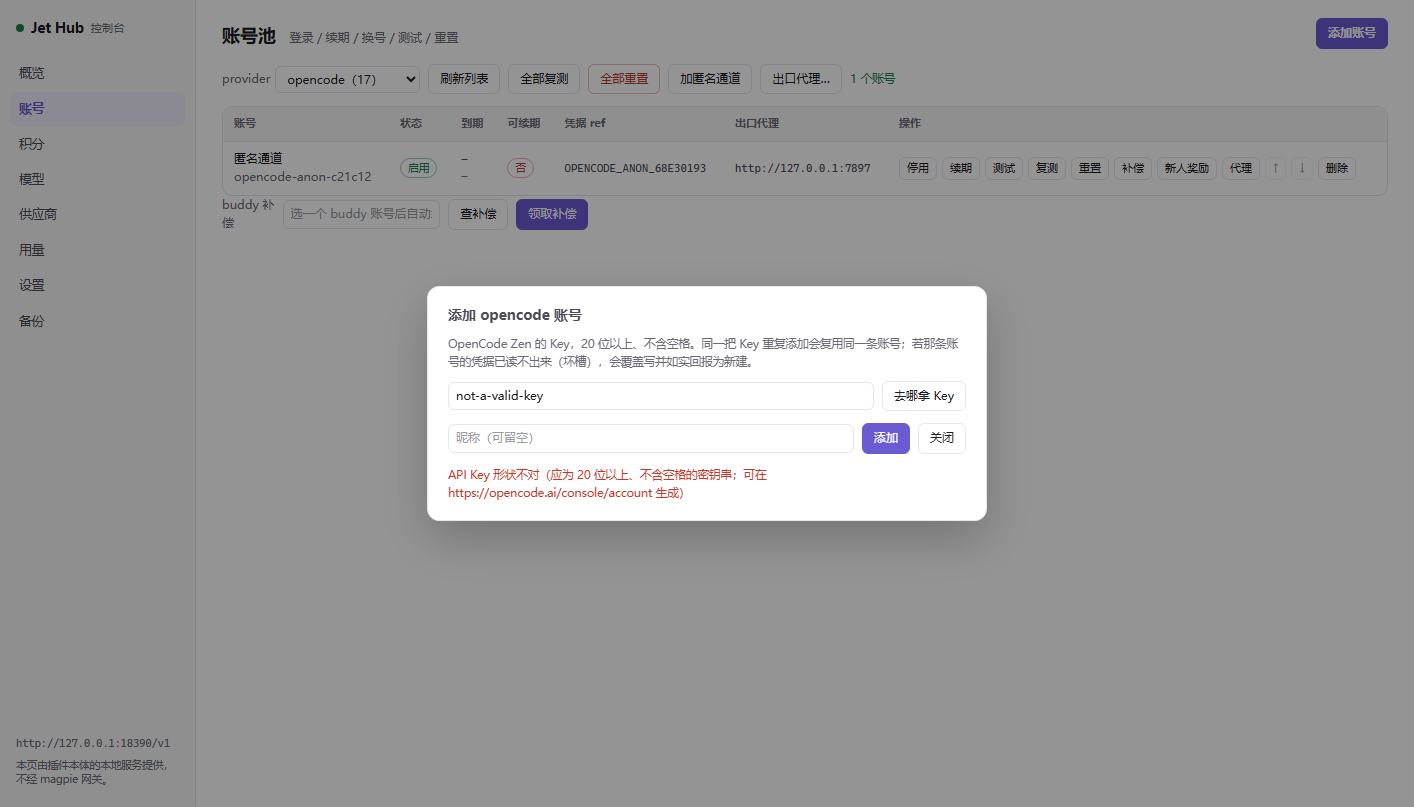
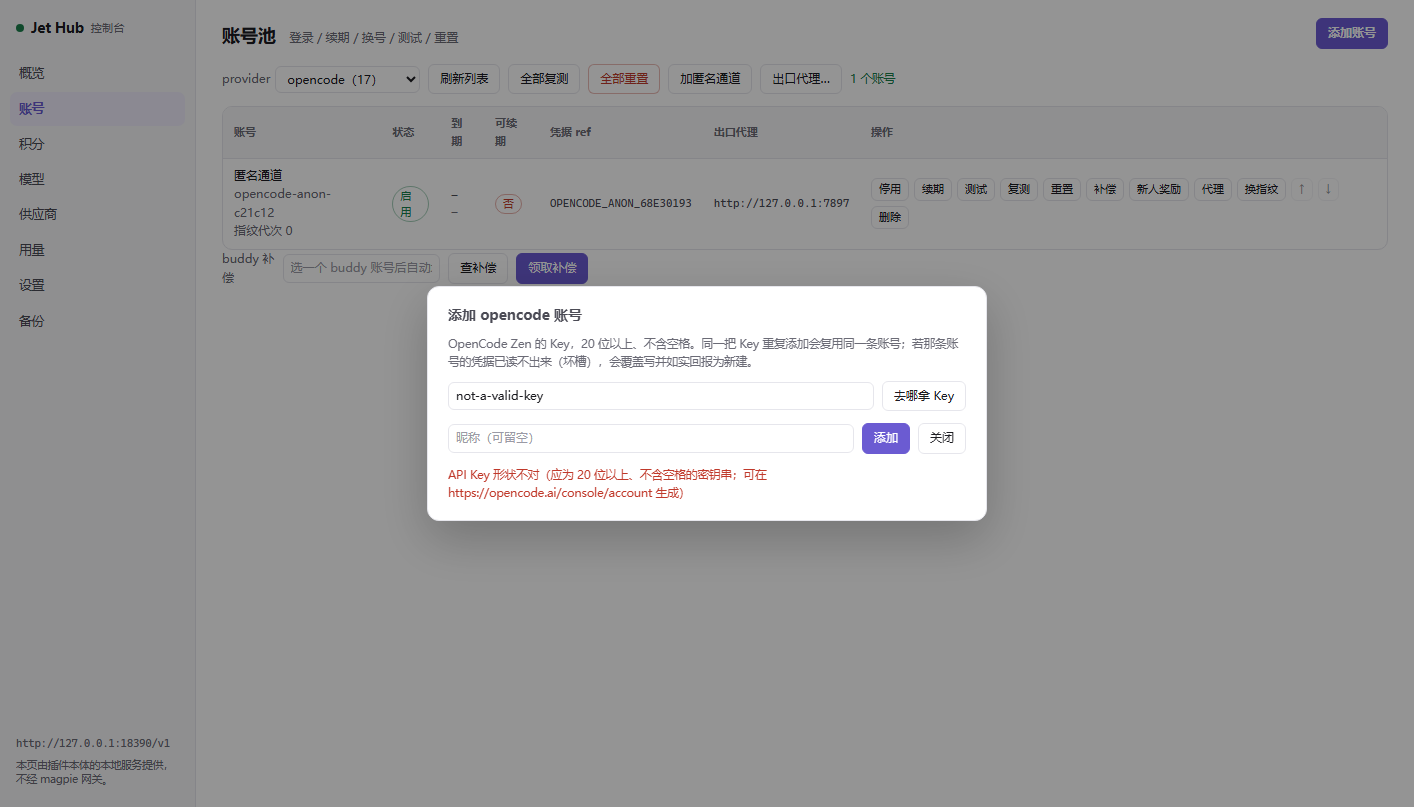
feat(console): 接上最后 2 个 RPC，覆盖率 78/78
modelscope.setApiKey：账号行加「换 Key」按钮（只 modelscope 有，opencode 没有
setApiKey，只能先删后加，就不给用户一条走不通的路）。⚠ 换另一把 Key ⇒ 账号 id
随 Key 尾 8 位变 ⇒ 本体先建后删并回 renamed:true ⇒ 界面整表重读；同一把 Key
只刷凭据回 renamed:false。两种结果都重读——credentialRef/掩码这些派生列也得重算。

opencode.rotateFingerprint：账号行加「换指纹」按钮并在账号名下显示「指纹代次 N」
（读 account.list 透传的池字段 opencodeFingerprintGeneration，与池侧
normalizeOpencodeGeneration 同源）。文案不承诺额度：换指纹不增加配额，匿名通道
按出口 IP 限额，要多份额度得给不同通道配不同代理。

两个方法名都写字面量，供 tests/t-rpc-cover.mjs 按字面量计数。
rotateFingerprint() 不自己套 busy —— 调用点已在 busy 里面，两层会让内层先恢复
按钮文字与外层状态提前消失。

shot-console.cjs 相应加断言：换 Key 按钮显隐（modelscope 有/opencode 无）、
非法 Key 报错且账号数不变；换指纹真跑一次断言代次 +1、回包 generation 与池一致、
projectId 非空、行里显示代次。

diff --git a/console/console.js b/console/console.js
@@ -206,6 +206,7 @@ async function loadAccounts() {
 function renderAccounts() {
   const provider = $('#accProvider').value
   const px = PROXY_CHANNELS[provider]
+  const rekey = REKEY_CHANNELS[provider]
   const rows = ACC.map((a, i) => {
     const dead = a.refreshable === false && typeof a.expiresAt === 'number' && a.expiresAt < Date.now()
     const status = a.enabled === false ? '<span class="pill off">停用</span>' : '<span class="pill on">启用</span>'
@@ -215,8 +216,13 @@ function renderAccounts() {
     const proxyCell = !px
       ? '<td class="muted">—</td>'
       : `<td class="mono">${proxyVal ? esc(proxyVal) : '<span class="muted">直连</span>'}</td>`
+    // opencode 指纹代次：`account.list` 透传池字段 `opencodeFingerprintGeneration`，
+    // 未设过就是 0（读的是同一个 normalizeOpencodeGeneration，见 pool:2883）。
+    const gen = provider === 'opencode' ? Number(a.opencodeFingerprintGeneration ?? 0) : null
     return `<tr>
-      <td>${esc(a.nickname ?? a.id)}<div class="muted mono">${esc(a.id)}</div></td>
+      <td>${esc(a.nickname ?? a.id)}<div class="muted mono">${esc(a.id)}</div>${
+        gen === null ? '' : `<div class="muted">指纹代次 ${gen}</div>`
+      }</td>
       <td>${status}${dead ? ' <span class="pill warn">死号</span>' : ''}</td>
       <td class="mono">${esc(fmtTime(a.expiresAt))}<div class="muted">${esc(relTime(a.expiresAt))}</div></td>
       <td>${a.refreshable === false ? '<span class="pill off">否</span>' : '<span class="pill on">是</span>'}</td>
@@ -231,6 +237,8 @@ function renderAccounts() {
         <button data-act="comp" data-id="${esc(a.id)}">补偿</button>
         <button data-act="onboard" data-id="${esc(a.id)}">新人奖励</button>
         ${px ? `<button data-act="proxy" data-id="${esc(a.id)}">代理</button>` : ''}
+        ${rekey ? `<button data-act="rekey" data-id="${esc(a.id)}">换 Key</button>` : ''}
+        ${provider === 'opencode' ? `<button data-act="rotfp" data-id="${esc(a.id)}">换指纹</button>` : ''}
         <button data-act="up" data-id="${esc(a.id)}" ${i === 0 ? 'disabled' : ''}>↑</button>
         <button data-act="down" data-id="${esc(a.id)}" ${i === ACC.length - 1 ? 'disabled' : ''}>↓</button>
         <button data-act="del" data-id="${esc(a.id)}">删除</button>
@@ -287,6 +295,14 @@ async function onAccAction(e) {
         return
       } else if (act === 'proxy') {
         openProxyModal(provider, id)
+        return
+      } else if (act === 'rekey') {
+        openRekeyModal(id)
+        return
+      } else if (act === 'rotfp') {
+        // rotateFingerprint 自己写完再整表重读（代次变了要在行里显示出来）；
+        // 它不自己套 busy —— 这里已经是 busy 里面了。
+        await rotateFingerprint(id)
         return
       } else if (act === 'del') {
         if (!confirm(`删除账号 ${id}？凭据也会一起清掉。`)) return
@@ -430,6 +446,95 @@ async function submitKeyAccount(btn) {
   } catch (e) {
     say('#kmMsg', String(e.message ?? e), 'err')
   }
+}
+
+/* ══════════ 换 API Key（只有 modelscope；opencode 没有 setApiKey） ══════════
+ *
+ * ⚠ **这不是「改一个字段」，多数时候是换一条账号**：`modelscope.setApiKey` 的
+ * 账号 id 由 Key 尾 8 位派生（`modelscopeSlotNamesOf`，vendor/lib/modelscope-rpc.js:131），
+ * 所以换另一把 Key 时本体走「先建新号 + 删旧号」，回 `renamed:true`。
+ * ⇒ 界面必须**整表重读**：就地改一行的话，旧 id 那行还在、新 id 那行没有，
+ * 用户会以为账号没变、实际已经换了一条。`renamed:false` 才是真正就地刷新凭据。
+ *
+ * opencode **没有** setApiKey（对照 `opencode-rpc.js` 的 case 表，只有 addAccount），
+ * 唯一出路是先删后加 —— 所以这里不给 opencode 这个按钮，不让用户看到一条走不通的路。
+ */
+const REKEY_CHANNELS = {
+  modelscope: {
+    hint: '换成另一把 Key 会**换一条账号**（id 随 Key 尾 8 位变）：本体先建新号再删旧号，' +
+      '昵称与停用状态都继承旧的。填同一把 Key 则只刷新凭据，账号不变。',
+    where: 'https://modelscope.cn/my/myaccesstoken',
+  },
+}
+
+function openRekeyModal(accountId) {
+  const provider = $('#accProvider').value
+  const cfg = REKEY_CHANNELS[provider]
+  if (!cfg) throw new Error(`没有换 Key 端点的 provider：${provider}`)
+  const acc = ACC.find((a) => a.id === accountId)
+  $('#rkProvider').textContent = provider
+  $('#rkHint').textContent = cfg.hint
+  $('#rkWhere').href = cfg.where
+  $('#rkAccountId').value = accountId
+  $('#rkKey').value = ''
+  say('#rkMsg', acc?.nickname ? `当前账号：${acc.nickname}` : '')
+  $('#rkModal').hidden = false
+  $('#rkKey').focus()
+}
+
+function closeRekeyModal() {
+  $('#rkModal').hidden = true
+  say('#rkMsg', '')
+}
+
+async function submitRekey(btn) {
+  const provider = $('#rkProvider').textContent
+  if (!REKEY_CHANNELS[provider]) return
+  const accountId = $('#rkAccountId').value.trim()
+  const apiKey = $('#rkKey').value.trim()
+  if (!apiKey) {
+    say('#rkMsg', '请先粘贴新的 API Key', 'err')
+    return
+  }
+  try {
+    await busy(btn, async () => {
+      // 方法名写字面量（tests/t-rpc-cover.mjs 按字面量数覆盖率，用变量拼会数不到）
+      const v = await rpc('modelscope.setApiKey', { accountId, apiKey })
+      if (v?.renamed === true) {
+        say('#rkMsg', `已换成另一把 Key：账号从 ${accountId} 变成 ${v.accountId}（旧号已删）`, 'ok')
+      } else {
+        say('#rkMsg', `已刷新凭据 ${v?.masked ?? ''}（账号不变 ${v?.accountId ?? accountId}）`, 'ok')
+      }
+      setTimeout(async () => {
+        closeRekeyModal()
+        // ⚠ 两种结果都整表重读：renamed 是换了一条账号；没换也得让
+        // `credentialRef` / 掩码这些派生列重新算一遍，别只改内存里的一个字段。
+        await loadAccounts()
+      }, 800)
+    })
+  } catch (e) {
+    say('#rkMsg', String(e.message ?? e), 'err')
+  }
+}
+
+/* ══════════ 换指纹代次（只有 opencode） ══════════
+ *
+ * `opencode.rotateFingerprint` 用**当前代次**派生下一代并写回池
+ * （vendor/lib/account-pool.js:2865 `updateOpencodeFingerprintGeneration`，
+ * 只接受比现值更大的代次 —— 乱序/重复回调写回小值会让人以为换了、其实没换）。
+ * 回包 `{generation, projectId}` 的 projectId **只用于即时回显**，不是请求依据：
+ * 真正的权威值在接线层按 `deriveProjectId(api_key, generation)` 重算。
+ *
+ * ⚠ 换指纹**不增加配额**：匿名通道按出口 IP 限额（本体注释实测：换 key、换伪装头、
+ * 换指纹全部无效）。要多份额度得给不同通道配不同代理。所以按钮文案与回显都不许诺额度。
+ */
+async function rotateFingerprint(accountId) {
+  // 由 onAccAction 的 busy() 包着调用，这里不再自己 busy(btn) —— 同一个按钮
+  // 套两层 busy 会让内层先恢复文字与 disabled，外层的「执行中」状态提前消失。
+  // 方法名写字面量（tests/t-rpc-cover.mjs 按字面量数覆盖率）。
+  const v = await rpc('opencode.rotateFingerprint', { accountId })
+  say('#accMsg', `指纹代次 → ${v?.generation ?? '—'}（projectId ${v?.projectId ?? '—'}；换指纹不加额度，要额度请给它单独配出口）`, 'ok')
+  await loadAccounts()
 }
 
 /* ══════════ 出口代理（per-账号，四家各自的端点与池字段） ══════════
@@ -1383,6 +1488,13 @@ async function boot() {
   $('#kmClose').addEventListener('click', closeKeyModal)
   $('#kmKey').addEventListener('keydown', (e) => {
     if (e.key === 'Enter') submitKeyAccount($('#kmAdd'))
+  })
+
+  // 换 Key 弹窗
+  $('#rkSave').addEventListener('click', (e) => submitRekey(e.currentTarget))
+  $('#rkClose').addEventListener('click', closeRekeyModal)
+  $('#rkKey').addEventListener('keydown', (e) => {
+    if (e.key === 'Enter') submitRekey($('#rkSave'))
   })
 
   // 登录弹窗

diff --git a/console/index.html b/console/index.html
@@ -281,6 +281,28 @@
   </div>
 </div>
 
+<!-- 换 API Key（只有 modelscope 有 modelscope.setApiKey；opencode 没有，只能先删后加）。
+     ⚠ 换了另一把 Key ⇒ 账号 id 随 Key 尾段变 ⇒ 那是**换一条账号**，本体先建后删并回
+     renamed:true；这时整表必须重读。同一把 Key 只刷凭据，renamed:false，就地更新。 -->
+<div id="rkModal" class="modal" hidden>
+  <div class="modal-box">
+    <h2>换 <span id="rkProvider"></span> API Key</h2>
+    <p id="rkHint"></p>
+    <div class="bar">
+      <label>账号 <input id="rkAccountId" class="grow mono" readonly></label>
+    </div>
+    <div class="bar">
+      <input id="rkKey" placeholder="粘新的 API Key" class="grow" autocomplete="off" spellcheck="false">
+      <a id="rkWhere" class="btn" href="#" target="_blank" rel="noreferrer">去哪拿 Key</a>
+    </div>
+    <div class="bar">
+      <button id="rkSave" class="primary">换 Key</button>
+      <button id="rkClose">关闭</button>
+    </div>
+    <div id="rkMsg" class="msg"></div>
+  </div>
+</div>
+
 <div id="loginModal" class="modal" hidden>
   <div class="modal-box">
     <h2>登录 <span id="lmProvider"></span></h2>
